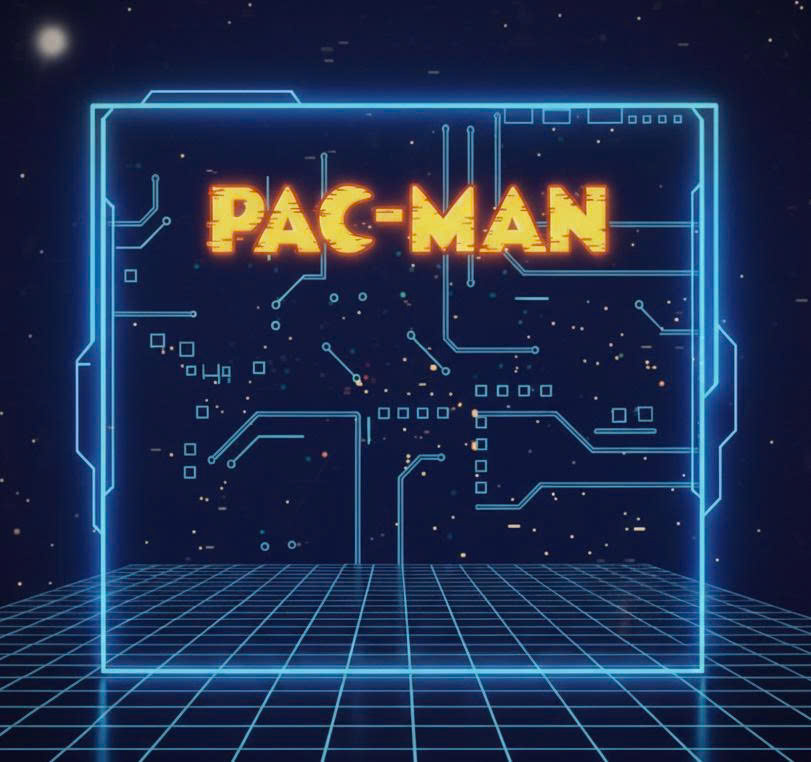
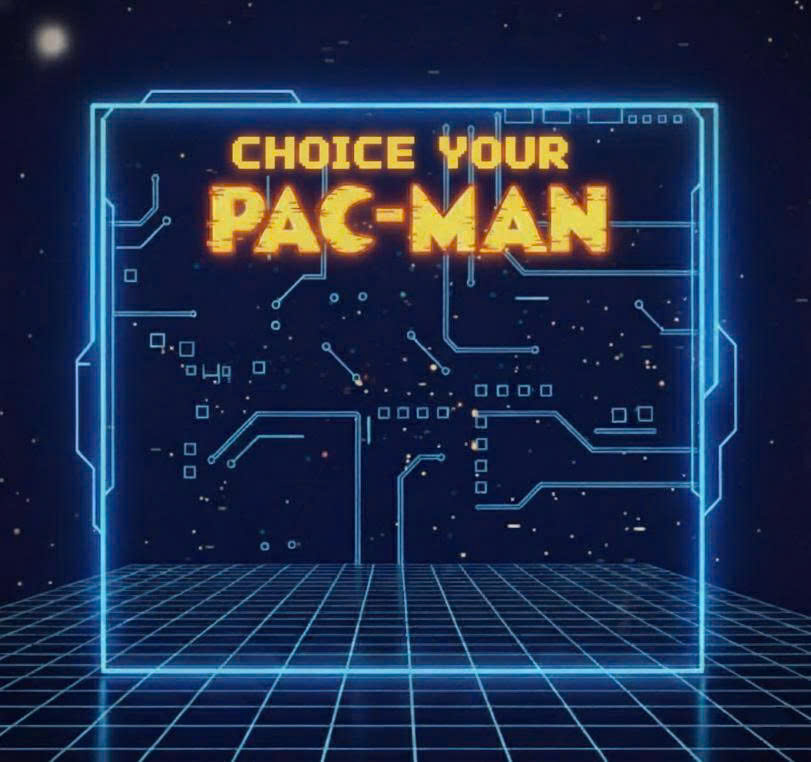
them pacman nu

diff --git a/src/pacman_demo_v2/ChoiceCharacter_Frame.java b/src/pacman_demo_v2/ChoiceCharacter_Frame.java
@@ -65,7 +65,7 @@ public class ChoiceCharacter_Frame extends javax.swing.JFrame {
         lbChoiceMan.setFont(new java.awt.Font("Tahoma", 1, 14)); // NOI18N
         lbChoiceMan.setForeground(new java.awt.Color(204, 204, 0));
         lbChoiceMan.setHorizontalAlignment(javax.swing.SwingConstants.CENTER);
-        lbChoiceMan.setIcon(new javax.swing.ImageIcon(getClass().getResource("/img/playIcon.png"))); // NOI18N
+        lbChoiceMan.setIcon(new javax.swing.ImageIcon(getClass().getResource("/img/Male.png"))); // NOI18N
         lbChoiceMan.setCursor(new java.awt.Cursor(java.awt.Cursor.HAND_CURSOR));
         lbChoiceMan.addMouseListener(new java.awt.event.MouseAdapter() {
             public void mouseClicked(java.awt.event.MouseEvent evt) {
@@ -73,13 +73,13 @@ public class ChoiceCharacter_Frame extends javax.swing.JFrame {
             }
         });
         jPanel1.add(lbChoiceMan);
-        lbChoiceMan.setBounds(20, 550, 340, 50);
+        lbChoiceMan.setBounds(130, 560, 140, 60);
 
         lbChoiceWoMan.setBackground(new java.awt.Color(0, 255, 255));
         lbChoiceWoMan.setFont(new java.awt.Font("Tahoma", 1, 14)); // NOI18N
         lbChoiceWoMan.setForeground(new java.awt.Color(255, 0, 0));
         lbChoiceWoMan.setHorizontalAlignment(javax.swing.SwingConstants.CENTER);
-        lbChoiceWoMan.setIcon(new javax.swing.ImageIcon(getClass().getResource("/img/exitIcon.png"))); // NOI18N
+        lbChoiceWoMan.setIcon(new javax.swing.ImageIcon(getClass().getResource("/img/Female.png"))); // NOI18N
         lbChoiceWoMan.setCursor(new java.awt.Cursor(java.awt.Cursor.HAND_CURSOR));
         lbChoiceWoMan.addMouseListener(new java.awt.event.MouseAdapter() {
             public void mouseClicked(java.awt.event.MouseEvent evt) {
@@ -87,7 +87,7 @@ public class ChoiceCharacter_Frame extends javax.swing.JFrame {
             }
         });
         jPanel1.add(lbChoiceWoMan);
-        lbChoiceWoMan.setBounds(370, 550, 340, 50);
+        lbChoiceWoMan.setBounds(460, 560, 140, 60);
 
         lbbackground.setHorizontalAlignment(javax.swing.SwingConstants.CENTER);
         lbbackground.setIcon(new javax.swing.ImageIcon(getClass().getResource("/img/BackGroundChoiceCharacter.jpg"))); // NOI18N

diff --git a/src/pacman_demo_v2/Pacman.java b/src/pacman_demo_v2/Pacman.java
@@ -7,6 +7,7 @@ import java.net.URL;
 import javax.imageio.ImageIO;
 
 public class Pacman {
+
     private int choiceCharacter;
     private int x, y;
     private int dx, dy;
@@ -45,16 +46,32 @@ public class Pacman {
         this.choiceCharacter = choiceCharacter;
     }
 
-    
     /**
      * Tải 3 ảnh cho mỗi hướng
      */
     private void loadImages() {
-       // int choiceCharacter;
-        //if (choiceCharacter == 1){
-            System.out.println("aaaaaaaaaaaaaaaaaaaaaaaaa: " + choiceCharacter + '\n');
-            
-        //}
+        // int choiceCharacter;
+        if (choiceCharacter == 2) {
+            upImage0 = loadImage("/img/pacman2/U0.png");
+            upImage1 = loadImage("/img/pacman2/U1.png");
+            upImage2 = loadImage("/img/pacman2/U2.png");
+
+            // Hướng xuống
+            downImage0 = loadImage("/img/pacman2/D0.png");
+            downImage1 = loadImage("/img/pacman2/D1.png");
+            downImage2 = loadImage("/img/pacman2/D2.png");
+
+            // Hướng trái
+            leftImage0 = loadImage("/img/pacman2/L0.png");
+            leftImage1 = loadImage("/img/pacman2/L1.png");
+            leftImage2 = loadImage("/img/pacman2/L2.png");
+
+            // Hướng phải
+            rightImage0 = loadImage("/img/pacman2/R0.png");
+            rightImage1 = loadImage("/img/pacman2/R1.png");
+            rightImage2 = loadImage("/img/pacman2/R2.png");
+            return;
+        }
         upImage0 = loadImage("/img/pacman/pacnu0tren.png");
         upImage1 = loadImage("/img/pacman/pacnu1tren.png");
         upImage2 = loadImage("/img/pacman/pacnu2tren.png");
@@ -140,7 +157,6 @@ public class Pacman {
         prevX = x;
         prevY = y;
 
-
         // Kiểm tra xem hướng YÊU CẦU có hợp lệ không
         dx = req_dx;
         dy = req_dy;
@@ -148,9 +164,7 @@ public class Pacman {
         int newX = x + dx;
         int newY = y + dy;
 
-
         // Di chuyển chính thức
-
         if (isValidMove(newX, newY, mapData, totalDots)) {
             x = newX;
             y = newY;
